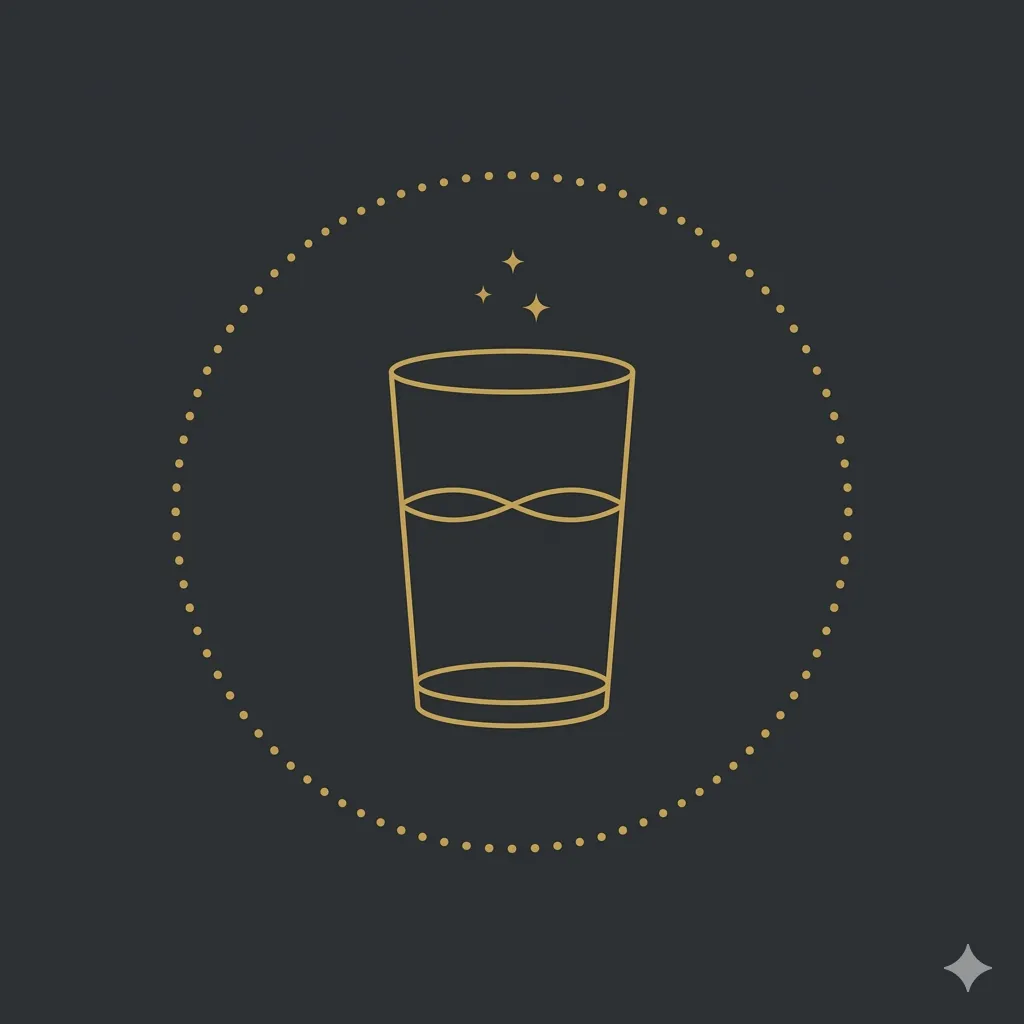
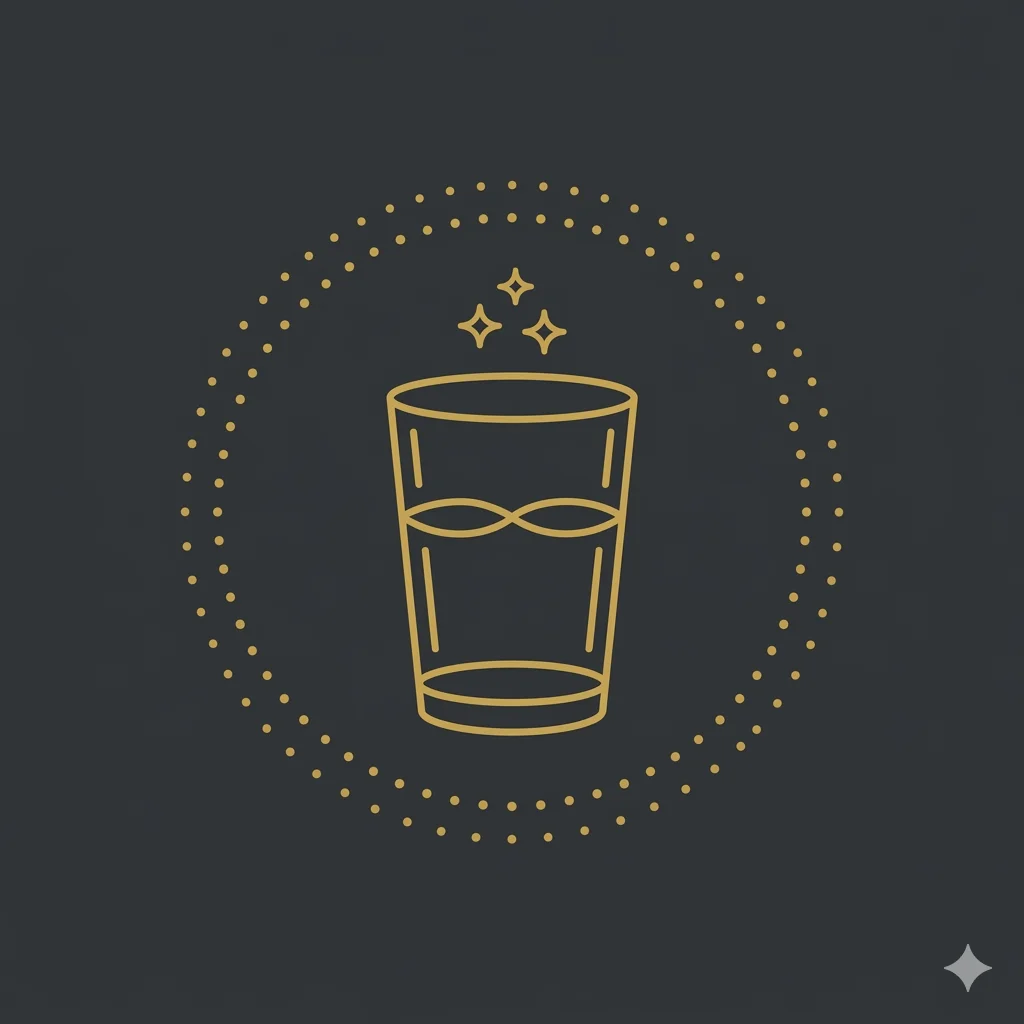
chore: regen WebP from new opaque-bg PNGs (#313438), SW v245

diff --git a/sw.js b/sw.js
@@ -1,4 +1,4 @@
-const VERSION = 'niyyah-v244';
+const VERSION = 'niyyah-v245';
 const CORE = [
   './index.html',
   './manifest.json',
